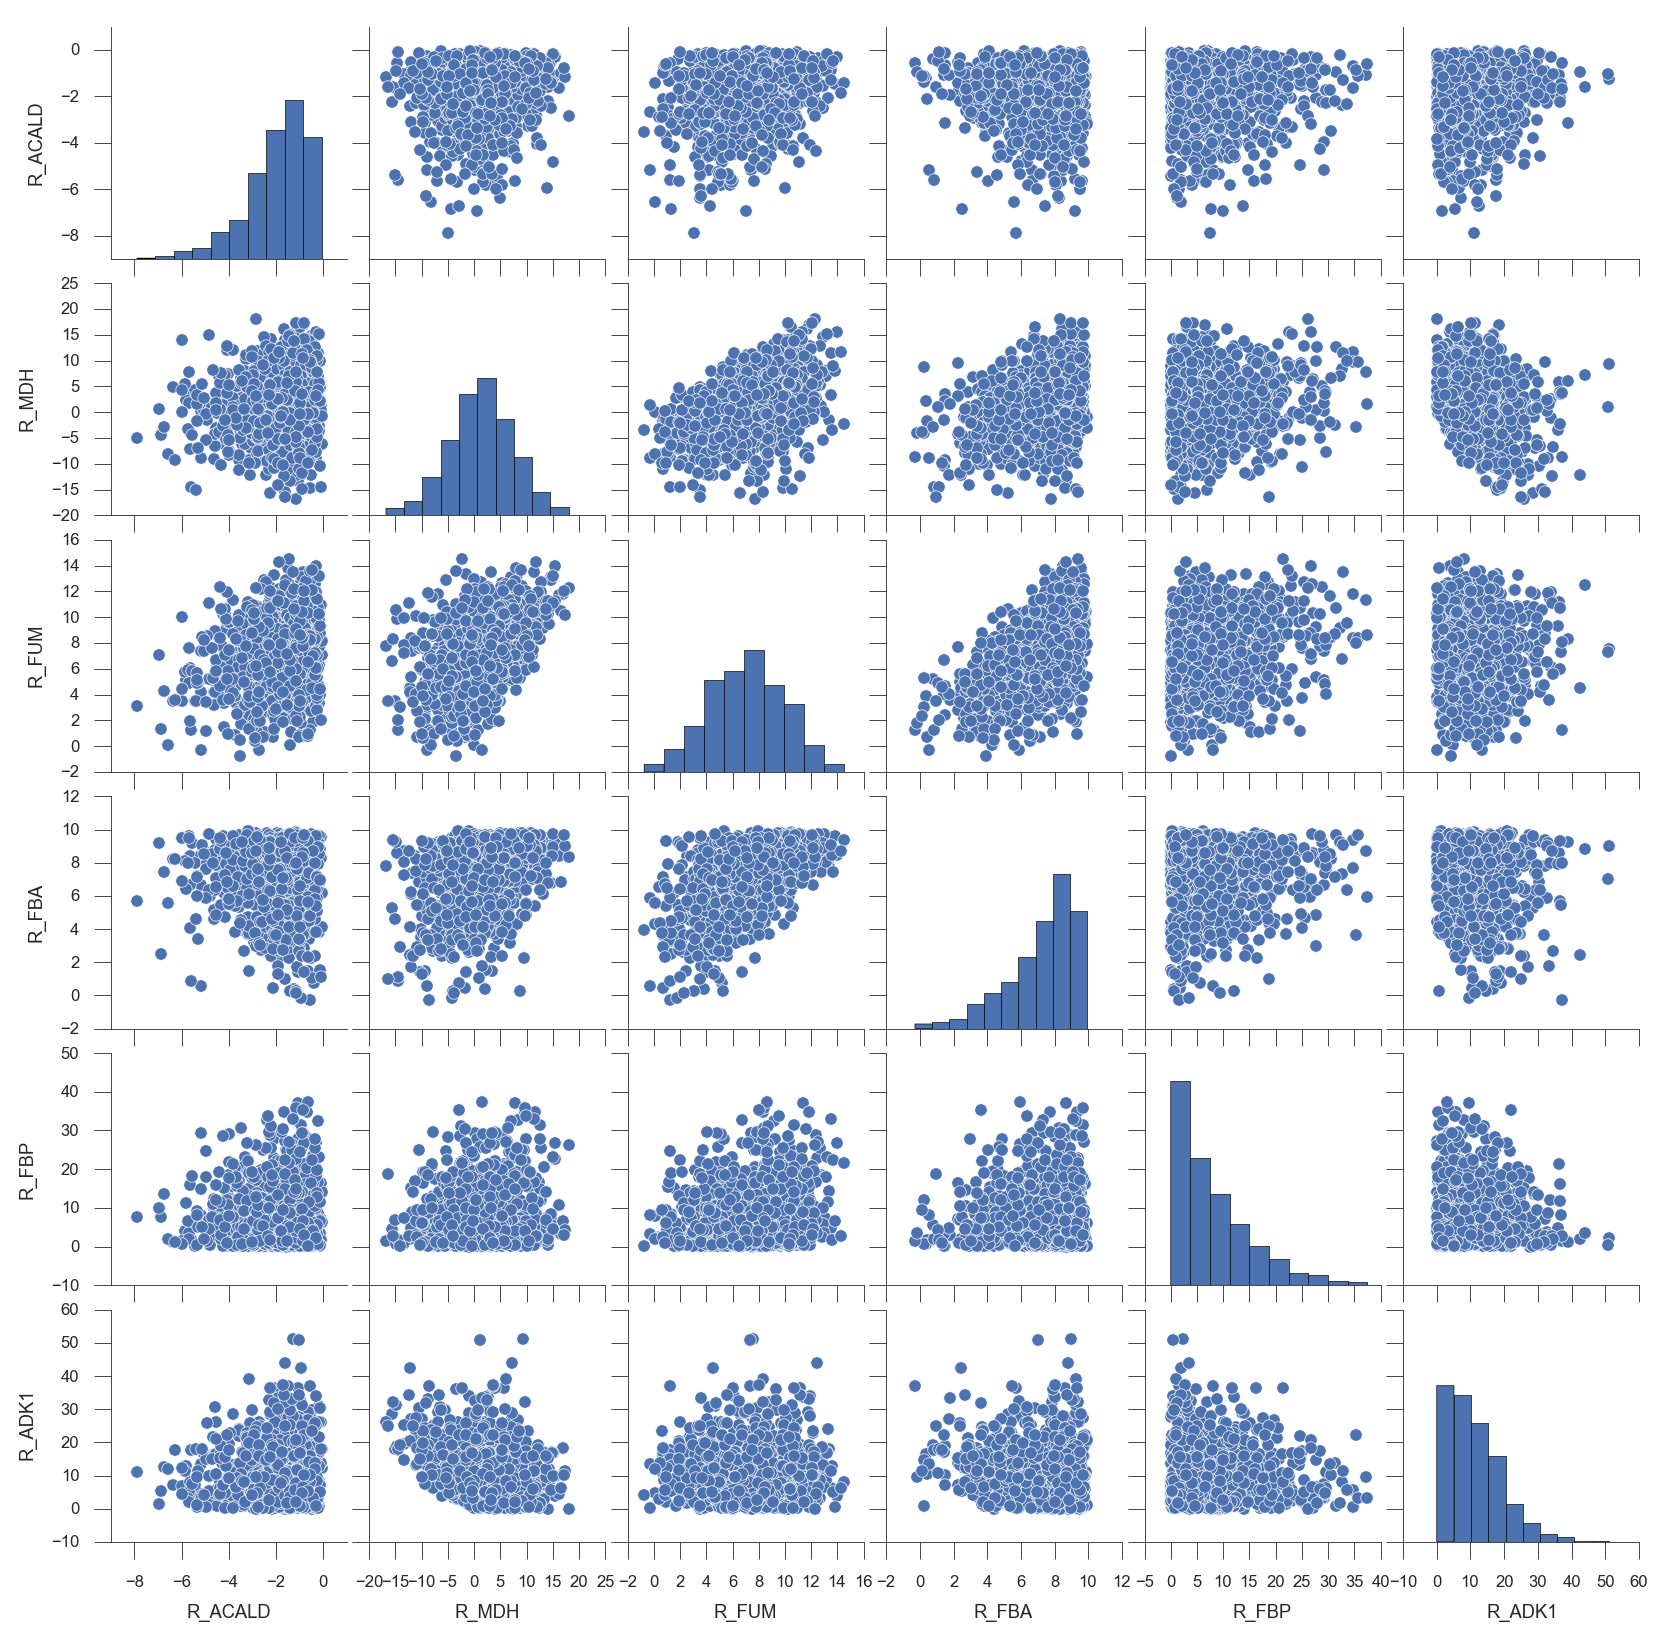
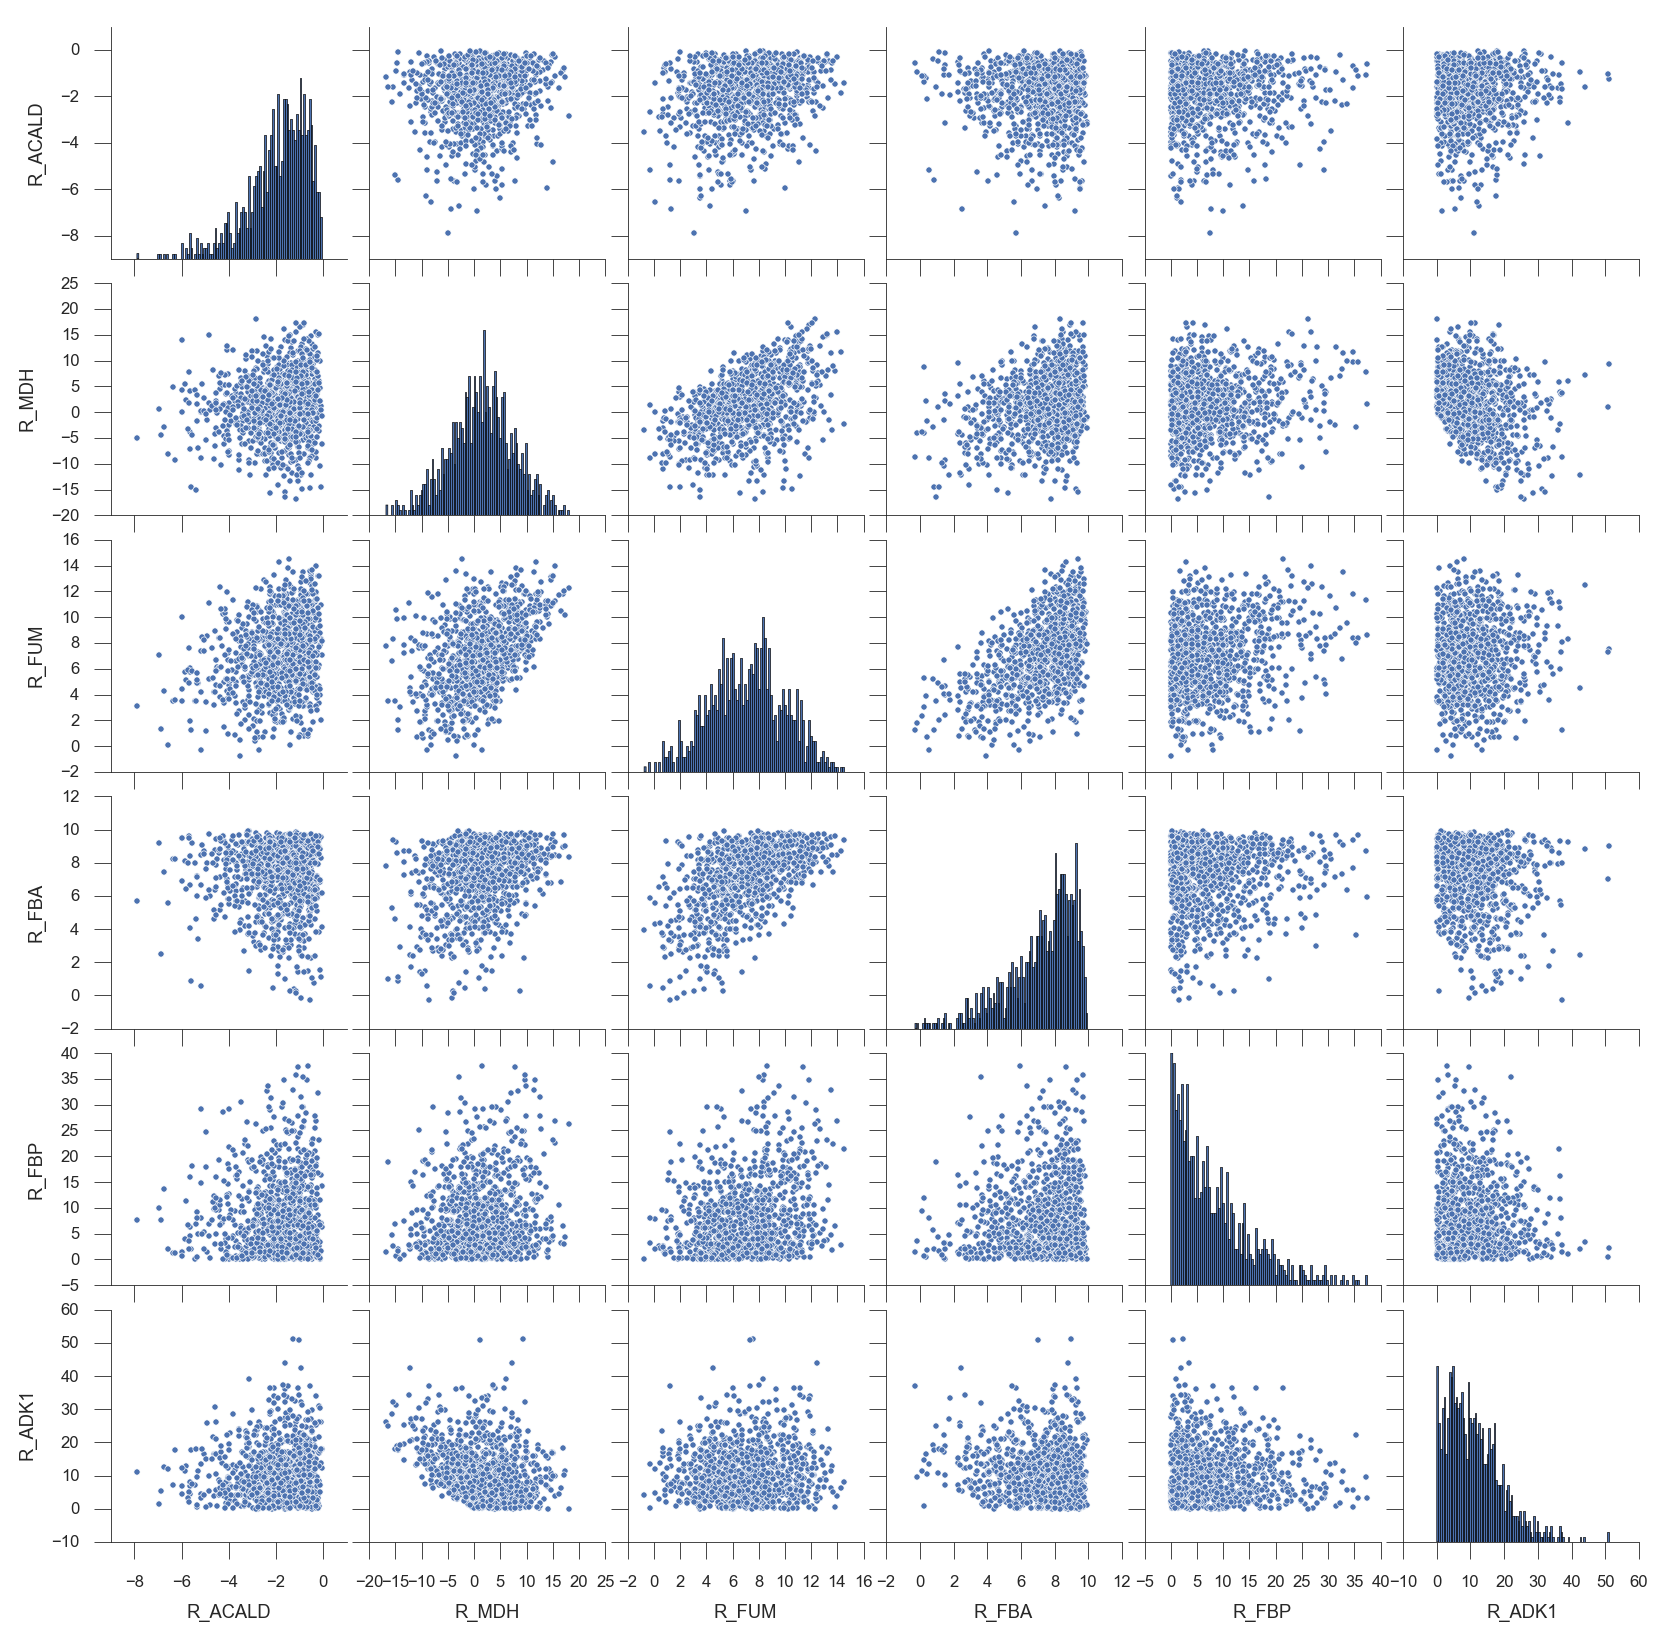
Sampler test plotting updated

diff --git a/src/hlrcc/tests/sampler_test.py b/src/hlrcc/tests/sampler_test.py
@@ -22,7 +22,7 @@ print solution
 reactions = ['R_ACALD', 'R_MDH', 'R_FUM', 'R_FBA', 'R_FBP', 'R_ADK1']
 
 sns.set(style='ticks', context='paper', font_scale=.75, rc={'axes.linewidth': .3, 'xtick.major.width': .3, 'ytick.major.width': .3})
-sns.pairplot(solution[reactions])
+sns.pairplot(solution[reactions], diag_kws={'bins': 100}, plot_kws={'s': 5})
 plt.gcf().set_size_inches(8, 8)
 plt.savefig('./reports/sampler_test_ecoli_core.png', bbox_inches='tight', dpi=200)
 plt.close('all')
